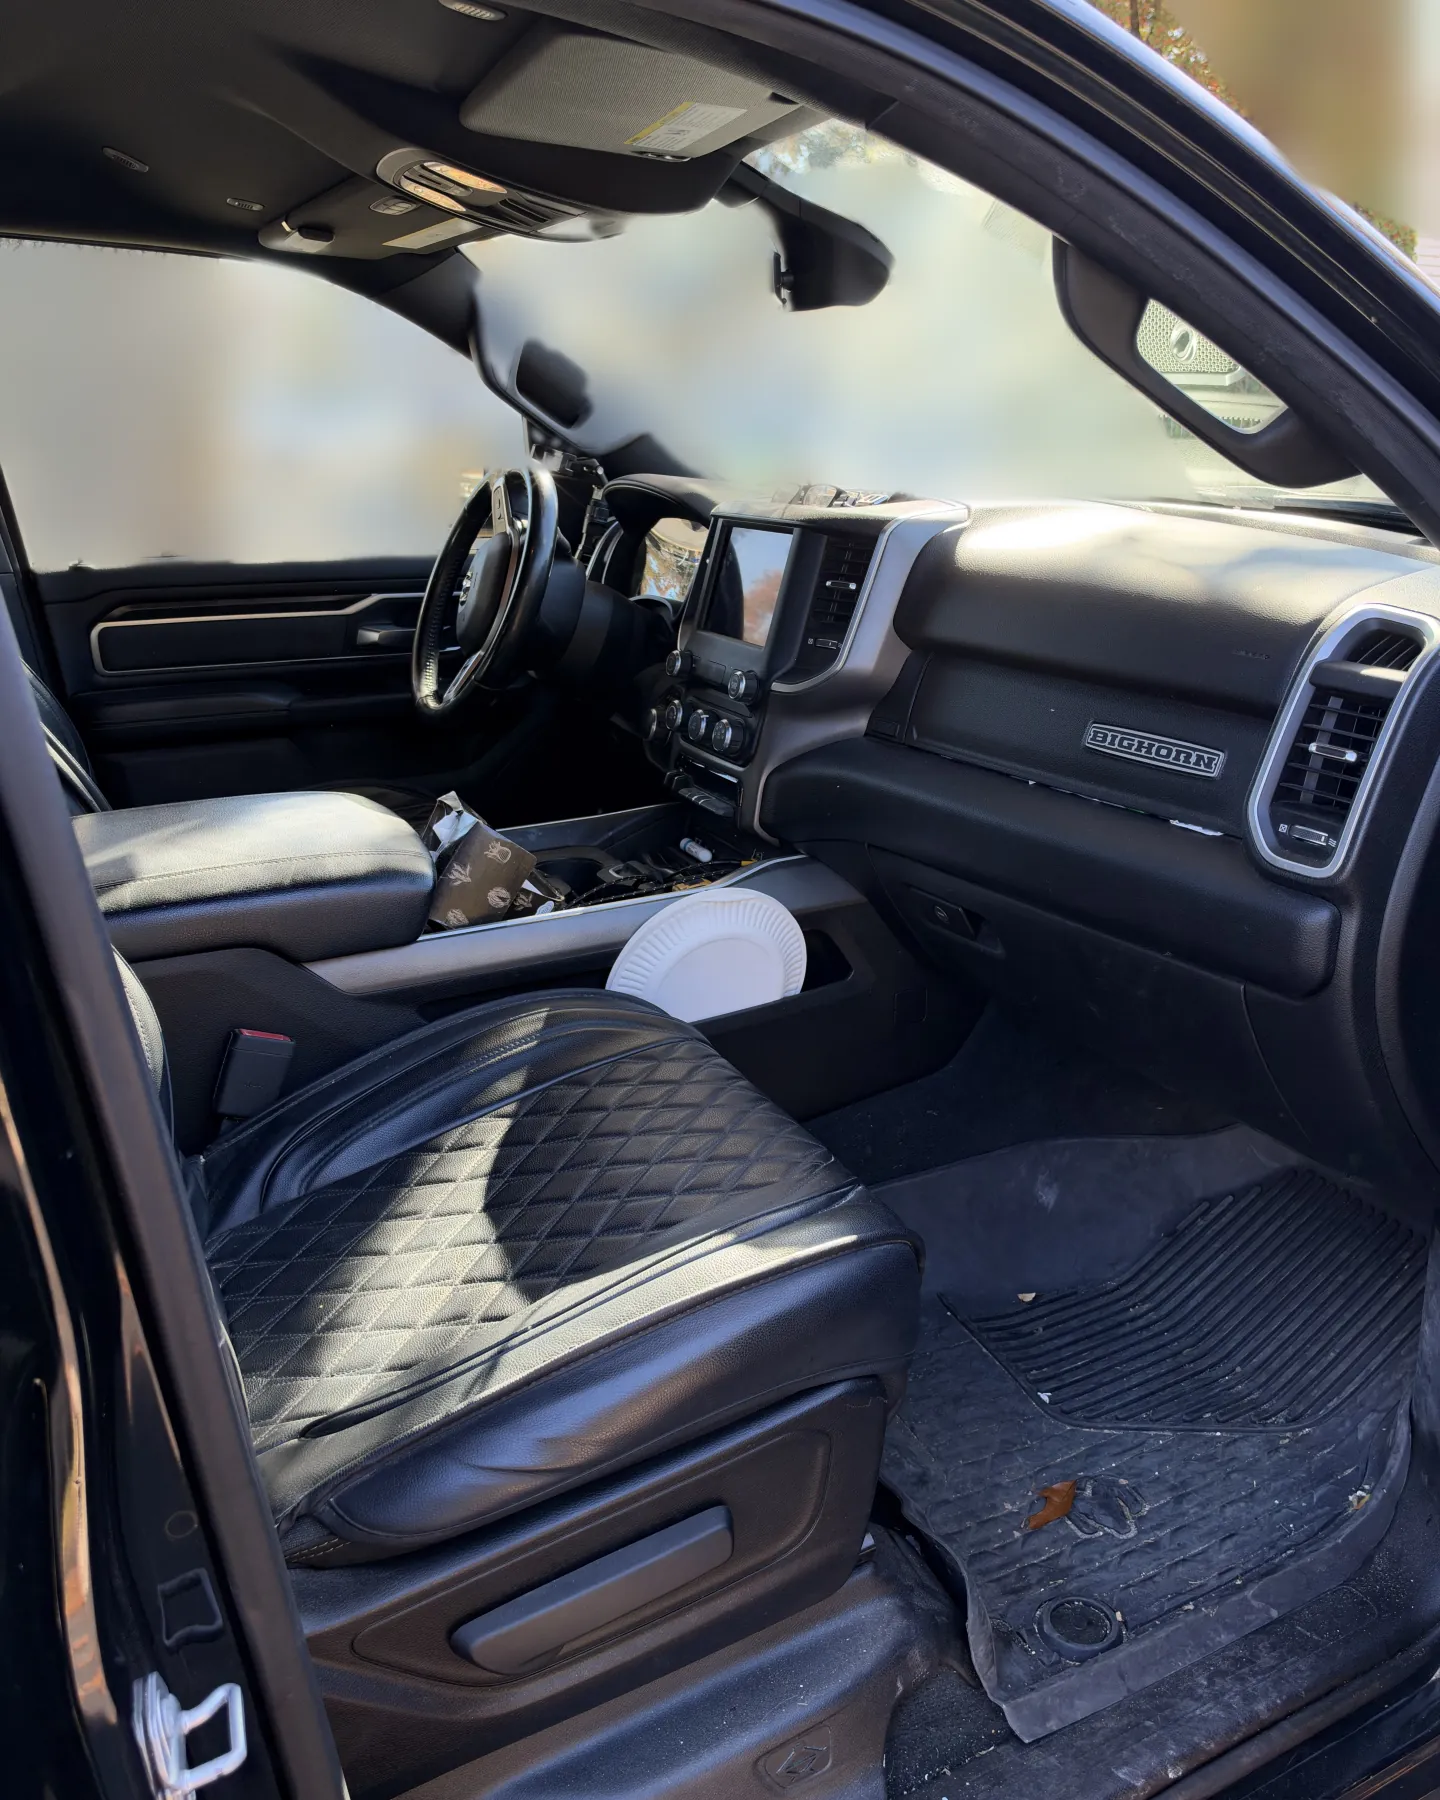
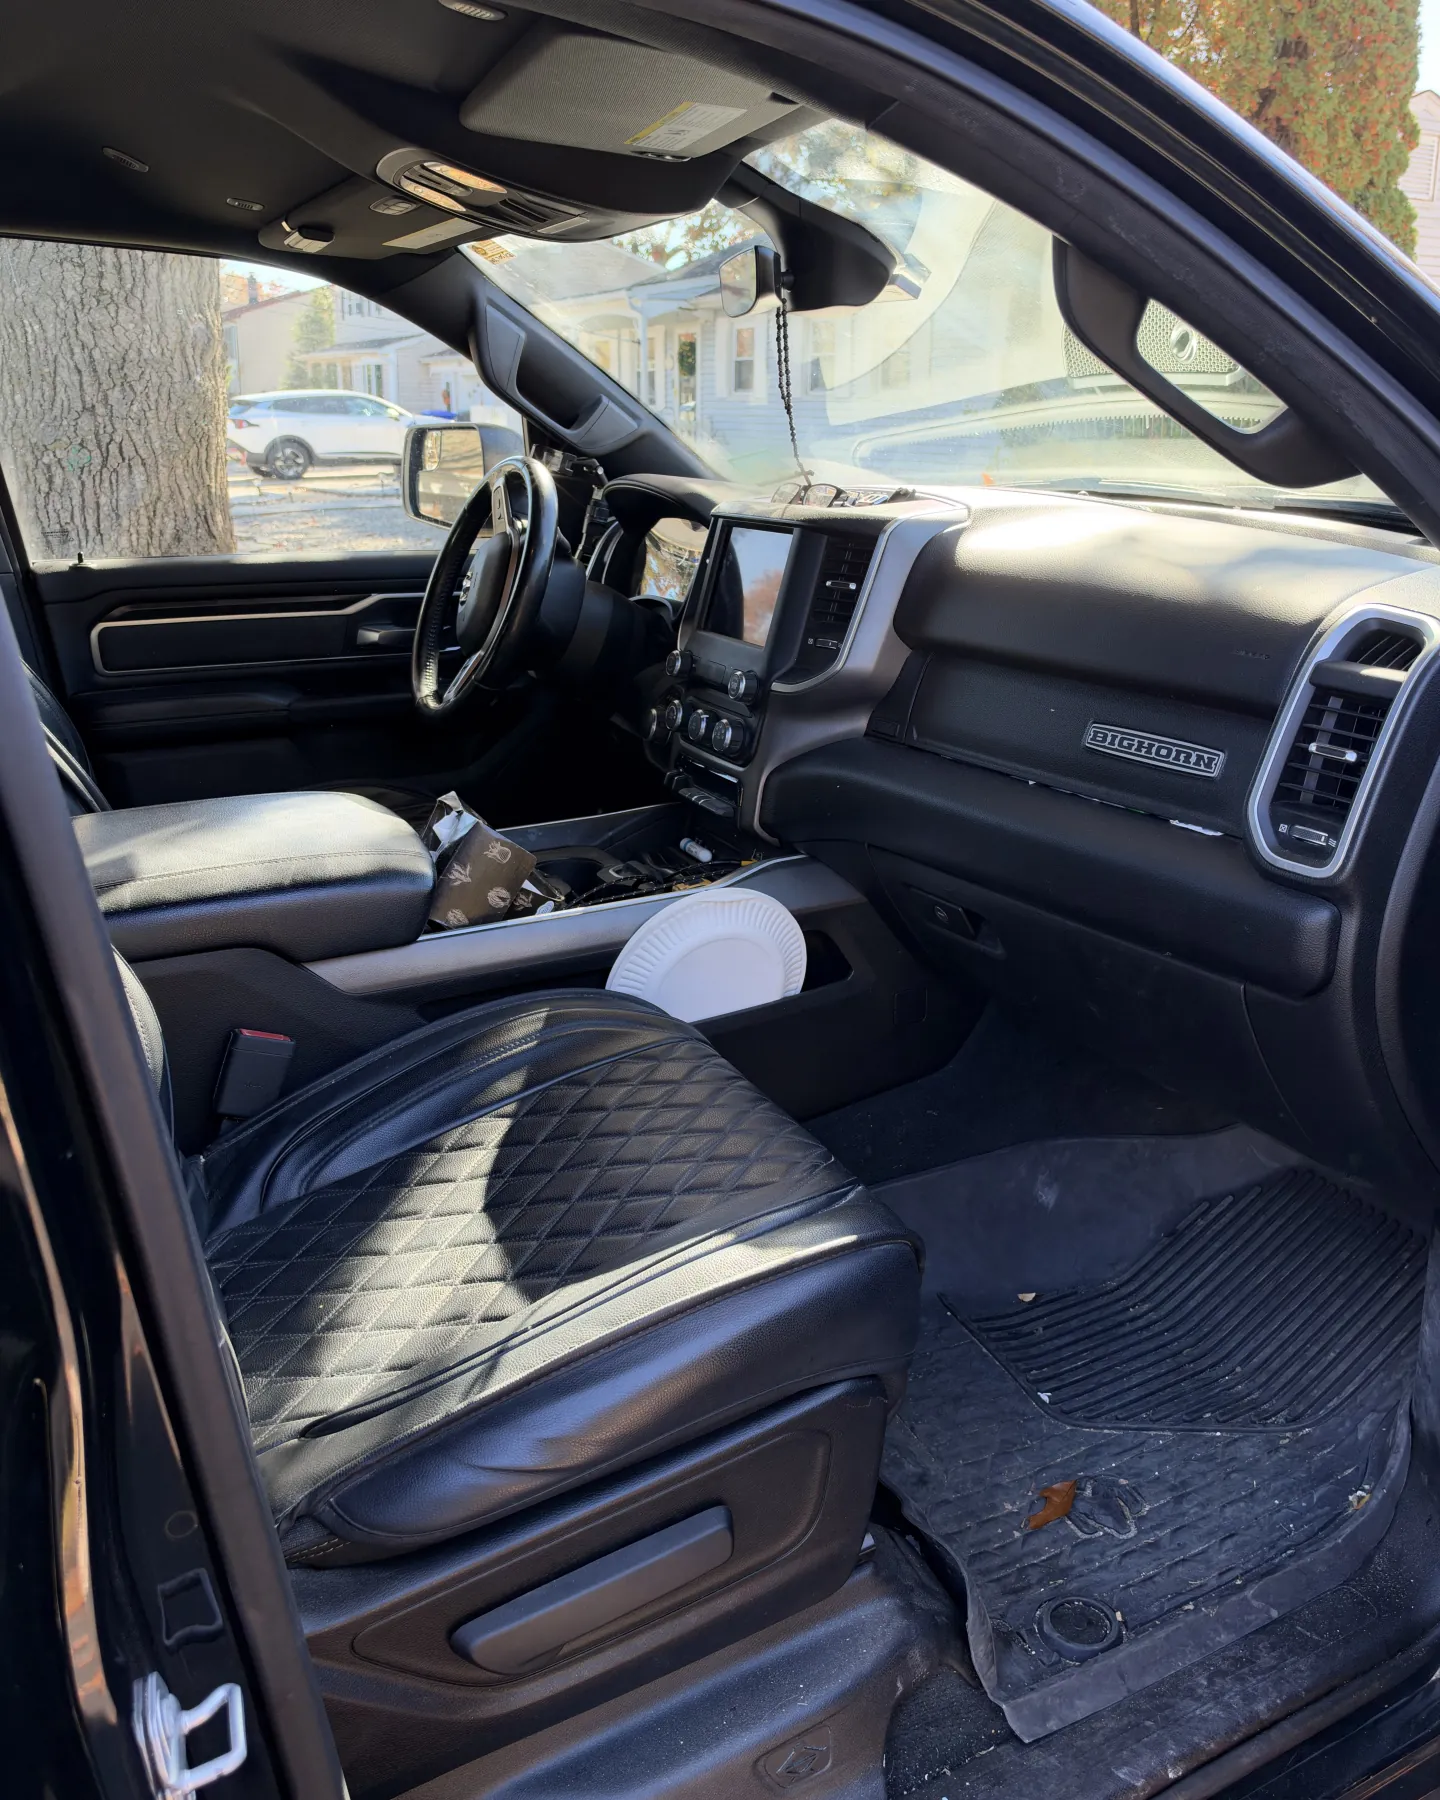
Results: Ram shots in order Dash, Rear seats, Passenger, Front seats; drop the heavy windshield blur on the passenger shot
Claude-Session: https://claude.ai/code/session_0183BChXuPMpx71hwD56EnPD

Changed region(s): [[0.0, 0.0933, 0.6562, 0.3111], [0.8125, 0.0, 1.0, 0.1244], [0.5938, 0.1867, 0.8438, 0.28]]

diff --git a/public/index.html b/public/index.html
@@ -4184,10 +4184,10 @@ footer { border-top: 1px solid var(--line); padding-block: 48px 64px; color: var
       { k: "rav4-rear", label: "Rear seats", alt: "Rear bench seat and floor of a Toyota RAV4" },
       { k: "rav4-ext", label: "Exterior", alt: "Front of a red Toyota RAV4 in a driveway" } ] },
     { id: "ram", name: "Ram 1500", isNew: true, size: 2, pkg: "interior", shots: [
-      { k: "ram-front", hd: 1440, label: "Front seats", alt: "Driver seat, floor mat and center console of a Ram 1500, seen from the open door" },
       { k: "ram-dash", hd: 1440, label: "Dash", alt: "Steering wheel, dash and driver seat of a Ram 1500" },
       { k: "ram-rear", hd: 1440, label: "Rear seats", alt: "Rear bench seat and floor of a Ram 1500 crew cab" },
-      { k: "ram-pass", hd: 1440, label: "Passenger", alt: "Passenger seat, dash and floor mat of a Ram 1500" } ] },
+      { k: "ram-pass", hd: 1440, label: "Passenger", alt: "Passenger seat, dash and floor mat of a Ram 1500" },
+      { k: "ram-front", hd: 1440, label: "Front seats", alt: "Driver seat, floor mat and center console of a Ram 1500, seen from the open door" } ] },
     { id: "altima", name: "Nissan Altima", isNew: true, size: 0, pkg: "interior", shots: [
       { k: "altima-dash", hd: 1440, label: "Dash", alt: "Steering wheel, dash and driver seat of a Nissan Altima" },
       { k: "altima-front", hd: 1440, label: "Front seats", alt: "Driver seat and center console of a Nissan Altima, seen from the open door" },
